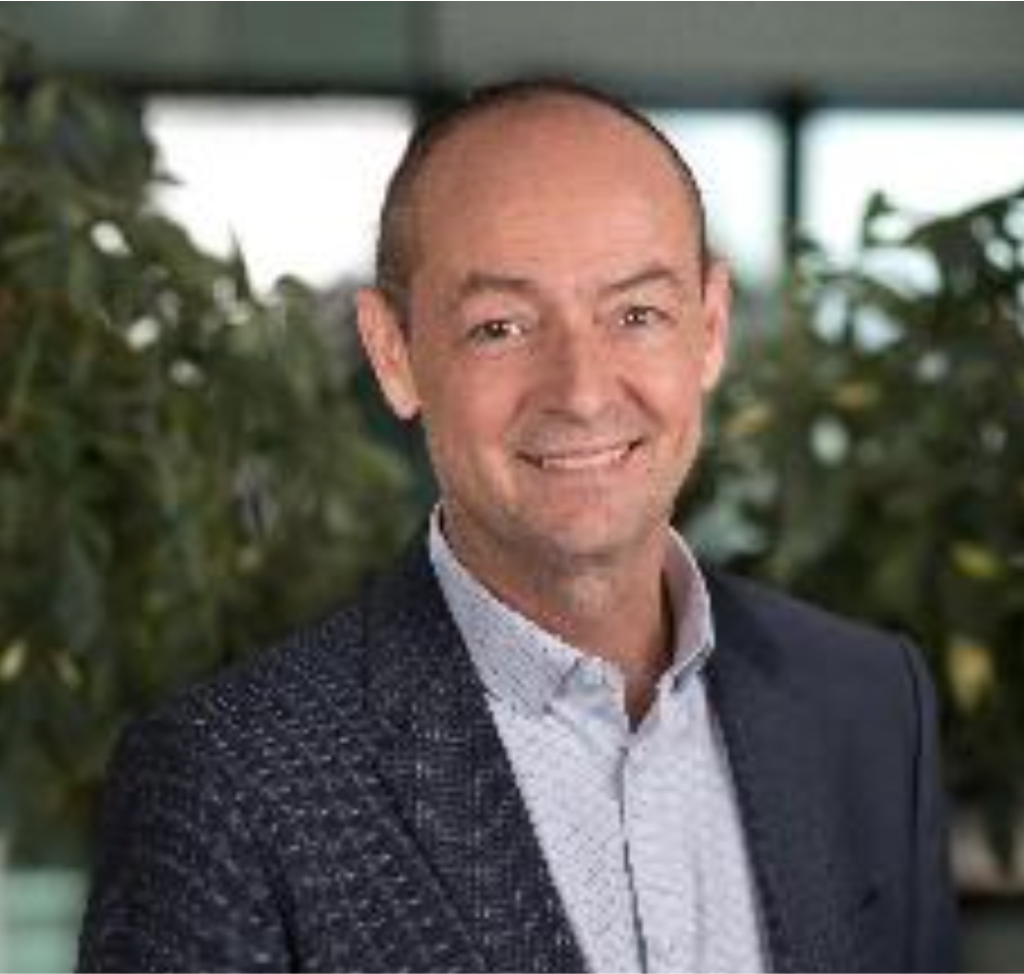
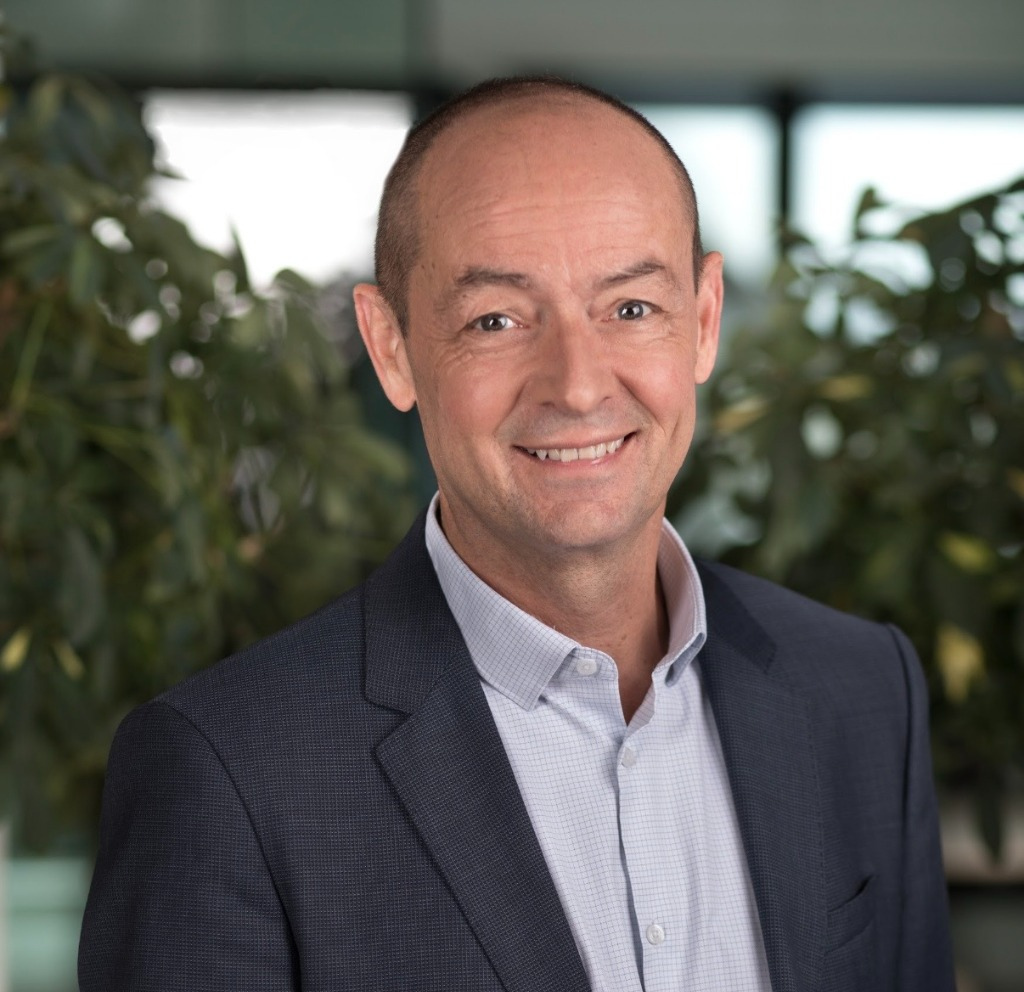
Website updates: improved styling, content edits, and new profile photo
- Changed nav logo to text 'Karel Zimmermann Consulting' with brand gradient
- Updated Hero CTA from 'Get in Touch' to 'Learn More' with scroll behavior
- Removed commas after 'structure' in hero and about sections
- Updated 'trusted partner' text to 'navigating opportunities and challenges'
- Updated 'What We Do' heading text
- Updated M&A text to 'divestiture support'
- Increased section tag sizes (Who We Are, What We Do, How We Work) on desktop and mobile
- Increased 'Every engagement' text size
- Removed physical address, added LinkedIn profile with SVG icon
- Removed 'Enabling Sustainable Performance' from footer
- Increased footer logo size on desktop and mobile
- Updated profile photo with higher quality image

diff --git a/index.html b/index.html
@@ -18,9 +18,7 @@
     <!-- Navigation -->
     <nav class="navbar">
         <div class="nav-container">
-            <a href="#home" class="nav-logo">
-                <img src="kz-icon.png" alt="Karel Zimmermann Consulting">
-            </a>
+            <a href="#home" class="nav-logo">Karel Zimmermann Consulting</a>
             <ul class="nav-menu">
                 <li><a href="#about">About</a></li>
                 <li><a href="#services">Services</a></li>
@@ -38,7 +36,7 @@
     <!-- Hero Section -->
     <section id="home" class="hero">
         <div class="hero-content">
-            <h1>Improving performance through <span class="gradient-text">strategy, structure, and execution</span></h1>
+            <h1>Improving performance through <span class="gradient-text">strategy, structure and execution</span></h1>
             <p class="hero-subtitle">Karel Zimmermann Consulting helps leadership teams achieve sustainable results
                 through pragmatic, well-designed solutions that work in the real world.</p>
             <div class="hero-stats">
@@ -52,7 +50,7 @@
                     <span class="stat-label">Trusted partner to executives and boards</span>
                 </div>
             </div>
-            <a href="mailto:zimmermannkarel1@gmail.com" class="btn btn-primary">Get in Touch</a>
+            <a href="#about" class="btn btn-primary">Learn More</a>
         </div>
     </section>
 
@@ -67,9 +65,9 @@
                     <span class="section-tag">Who We Are</span>
                     <h2>Enabling Sustainable Performance</h2>
                     <p>Karel Zimmermann Consulting supports companies in improving performance by designing strategies,
-                        structures, and execution models that endure.</p>
+                        structures and execution models that endure.</p>
                     <p>With broad international management experience across industries and geographies, we work as a
-                        trusted partner to leadership teams navigating growth, transformation, or complexity.</p>
+                        trusted partner to leadership teams navigating opportunities and challenges.</p>
                     <p class="focus-statement"><strong>Our focus is simple:</strong> clarity, ownership, and measurable
                         outcomes.</p>
                 </div>
@@ -82,7 +80,7 @@
         <div class="container">
             <div class="section-header">
                 <span class="section-tag">What We Do</span>
-                <h2>We help organizations sharpen their direction and strengthen their ability to execute</h2>
+                <h2>We help organizations through these core services</h2>
             </div>
             <div class="services-grid">
                 <div class="service-card">
@@ -144,7 +142,7 @@
                         </svg>
                     </div>
                     <h3>M&A Integration & Divestiture</h3>
-                    <p>Seamless integration and separation support.</p>
+                    <p>Seamless integration and divestiture support.</p>
                 </div>
             </div>
             <p class="services-note">Every engagement is tailored, practical, and designed to deliver results that
@@ -192,16 +190,23 @@
                 <a href="mailto:zimmermannkarel1@gmail.com" class="btn btn-primary btn-large">Contact Us</a>
                 <div class="contact-details">
                     <div class="contact-item">
-                        <span class="contact-icon">📍</span>
-                        <span>Schaapsdries 27, 3600 Genk, Belgium</span>
-                    </div>
-                    <div class="contact-item">
                         <span class="contact-icon">📞</span>
                         <a href="tel:+32471652221">+32 471 65 22 21</a>
                     </div>
                     <div class="contact-item">
                         <span class="contact-icon">✉</span>
                         <a href="mailto:zimmermannkarel1@gmail.com">zimmermannkarel1@gmail.com</a>
+                    </div>
+                    <div class="contact-item">
+                        <span class="contact-icon linkedin-icon">
+                            <svg xmlns="http://www.w3.org/2000/svg" viewBox="0 0 24 24" fill="currentColor" width="20"
+                                height="20">
+                                <path
+                                    d="M20.447 20.452h-3.554v-5.569c0-1.328-.027-3.037-1.852-3.037-1.853 0-2.136 1.445-2.136 2.939v5.667H9.351V9h3.414v1.561h.046c.477-.9 1.637-1.85 3.37-1.85 3.601 0 4.267 2.37 4.267 5.455v6.286zM5.337 7.433c-1.144 0-2.063-.926-2.063-2.065 0-1.138.92-2.063 2.063-2.063 1.14 0 2.064.925 2.064 2.063 0 1.139-.925 2.065-2.064 2.065zm1.782 13.019H3.555V9h3.564v11.452zM22.225 0H1.771C.792 0 0 .774 0 1.729v20.542C0 23.227.792 24 1.771 24h20.451C23.2 24 24 23.227 24 22.271V1.729C24 .774 23.2 0 22.222 0h.003z" />
+                            </svg>
+                        </span>
+                        <a href="https://www.linkedin.com/in/karel-zimmermann/" target="_blank"
+                            rel="noopener noreferrer">LinkedIn Profile</a>
                     </div>
                 </div>
             </div>
@@ -213,7 +218,6 @@
         <div class="container">
             <div class="footer-content">
                 <img src="logo-full.jpg" alt="Karel Zimmermann Consulting" class="footer-logo">
-                <p>Enabling Sustainable Performance</p>
                 <p class="copyright">© 2026 Karel Zimmermann Consulting. All rights reserved.</p>
             </div>
         </div>

diff --git a/styles.css b/styles.css
@@ -146,9 +146,21 @@ img {
     align-items: center;
 }
 
-.nav-logo img {
-    height: 52px;
-    width: auto;
+.nav-logo {
+    font-size: 1.5rem;
+    font-weight: 700;
+    background: var(--gradient-primary);
+    -webkit-background-clip: text;
+    -webkit-text-fill-color: transparent;
+    background-clip: text;
+    letter-spacing: -0.02em;
+}
+
+.nav-logo:hover {
+    background: var(--gradient-text);
+    -webkit-background-clip: text;
+    -webkit-text-fill-color: transparent;
+    background-clip: text;
 }
 
 .nav-menu {
@@ -324,8 +336,8 @@ img {
 
 .section-tag {
     display: inline-block;
-    font-size: 0.85rem;
-    font-weight: 600;
+    font-size: 1.5rem;
+    font-weight: 700;
     color: var(--teal);
     text-transform: uppercase;
     letter-spacing: 0.1em;
@@ -455,7 +467,7 @@ img {
 .services-note {
     text-align: center;
     margin-top: 48px;
-    font-size: 1.1rem;
+    font-size: 1.35rem;
     color: var(--gray-700);
     font-style: italic;
 }
@@ -562,6 +574,20 @@ img {
     font-size: 1.25rem;
 }
 
+.linkedin-icon {
+    display: flex;
+    align-items: center;
+}
+
+.linkedin-icon svg {
+    fill: var(--gray-300);
+    transition: fill var(--transition-fast);
+}
+
+.contact-item:hover .linkedin-icon svg {
+    fill: var(--teal-light);
+}
+
 /* ========================================
    Footer
    ======================================== */
@@ -580,9 +606,9 @@ img {
 }
 
 .footer-logo {
-    max-height: 80px;
+    max-height: 120px;
     width: auto;
-    opacity: 0.9;
+    opacity: 1;
 }
 
 .footer p {
@@ -700,8 +726,8 @@ img {
         padding: 10px 0;
     }
 
-    .nav-logo img {
-        height: 40px;
+    .nav-logo {
+        font-size: 1.1rem;
     }
 
     .nav-menu {
@@ -857,7 +883,7 @@ img {
     }
 
     .section-tag {
-        font-size: 0.75rem;
+        font-size: 1.25rem;
         margin-bottom: 12px;
     }
 
@@ -955,7 +981,7 @@ img {
     }
 
     .footer-logo {
-        max-height: 60px;
+        max-height: 100px;
     }
 
     .footer p {
